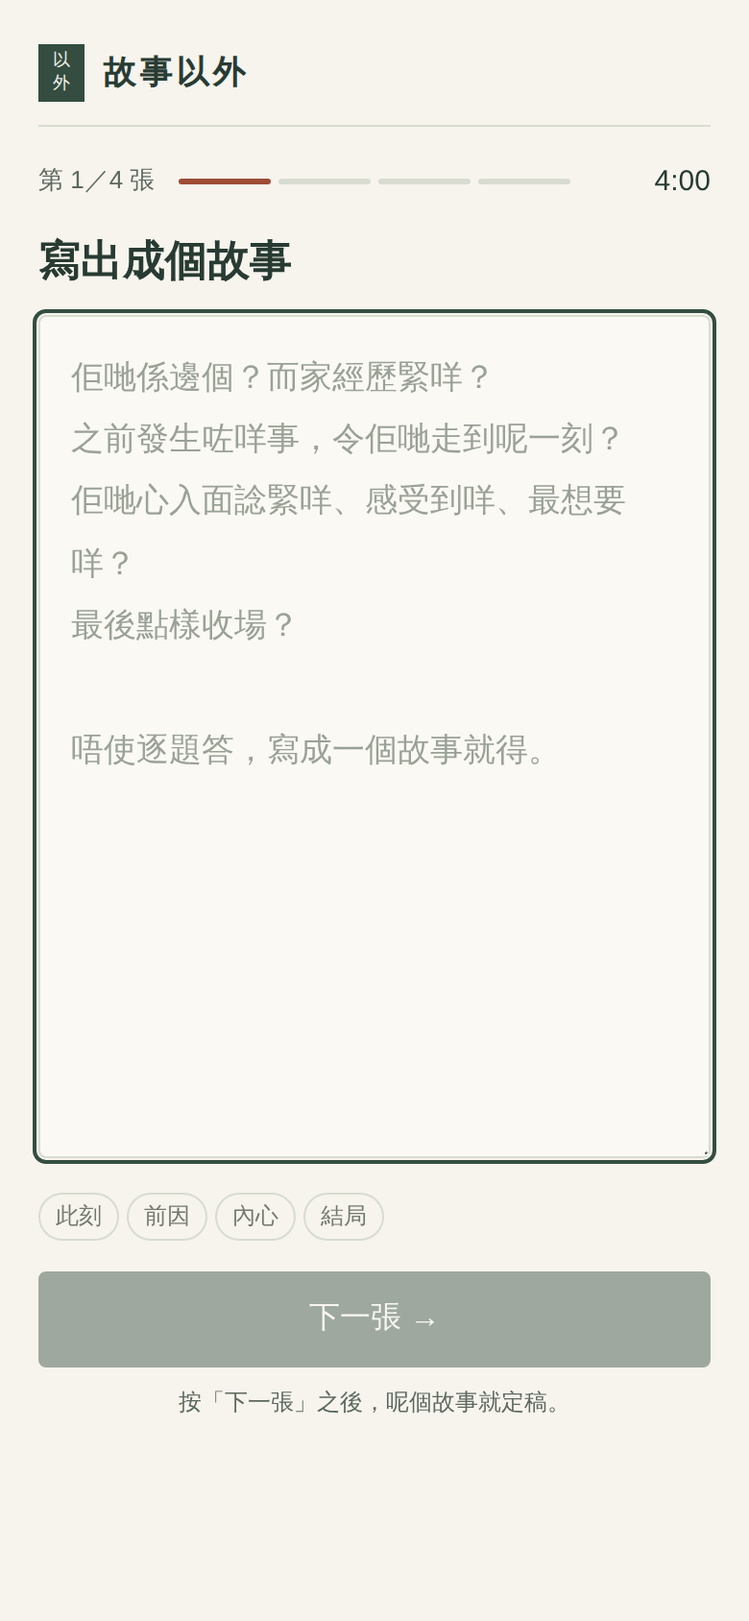
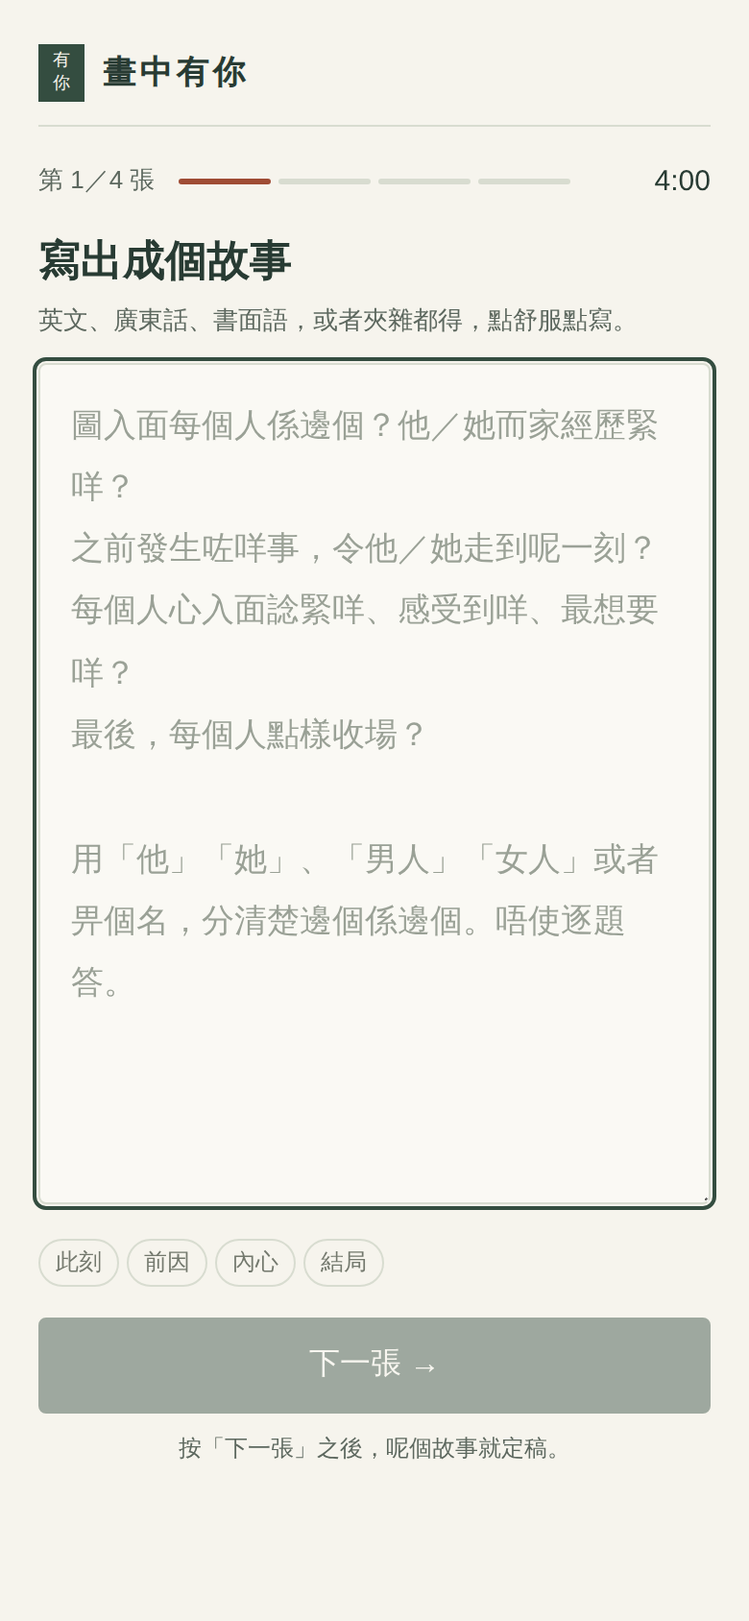
Per-character prompt, gentler nudge, more sensitive reading, rename
- Placeholder asks about each character with 他／她 (and suggests 男人／女人
  or names) instead of a collective 佢哋: translation renders a bare 佢 as
  "they", which merges characters in two-person stories.
- A line above the writing box says English, Cantonese, written Chinese or
  a mix are all fine.
- Short-story nudge becomes a quiet invitation to say more ("往往藏住你
  自己嘅影子"), muted instead of red.
- Sensitivity: a theme counts when either reading rates it >= 0.30 (the
  model's cut-off is 0.50); sentence cards label those 「隱約」. New slight
  lean tier (5-12 points above the pictures' share, 「有少少偏向」).
- Rename 故事以外 -> 畫中有你.

Claude-Session: https://claude.ai/code/session_01AKJCSX6GhkvQ21ka1gXCbL

diff --git a/web/app.js b/web/app.js
@@ -19,7 +19,11 @@ const SHORT = { ach: "成就", aff: "連結", pow: "影響力" };
 // Self-determination theory: achievement and power sit within competence, affiliation within relatedness.
 const NEEDS = [["勝任", "competence", ["ach", "pow"]], ["關係", "relatedness", ["aff"]]];
 const MIN_THEMES = 3;      // below this many detected themes, no lean is claimed
-const LEAN = 0.12;         // share above the pictures' typical share that counts as a lean
+const LEAN = 0.12;         // share above the pictures' typical share that counts as a clear lean
+const TILT = 0.05;         // ...and as a slight one
+// A theme counts when either reading rates it at least this likely; the model's own cut-off is 0.5.
+// Deliberately sensitive: for this exercise a faint false positive beats saying nothing.
+const FAINT = 0.3;
 const TYPICAL_OF_MAX = 0.75; // a picture "usually" pulls motives within 75% of its strongest pull
 // Boxer, couple by river, women in laboratory, ship captain.
 // German reference pulls: aff 4.18, ach 3.42, pow 3.99. A rough share benchmark, never a score correction.
@@ -322,8 +326,8 @@ function next() {
     S.nudged = pid;
     save();
     const note = $("short-note");
-    note.textContent = "故事好似未講完？可以補一兩句：之前發生咩、佢哋想要咩，或者最後點收場。"
-      + "已經寫完就再按一次。";
+    note.replaceChildren("想講多少少都得。他／她心入面諗緊咩、最後點樣，往往藏住你自己嘅影子。",
+      h("small", {}, "寫完就再按一次。"));
     note.hidden = false;
     return;
   }
@@ -550,9 +554,14 @@ function pathPanel(title, caption, counts) {
 
 // ---------- reading: combined themes against the pictures' pull ----------
 
-/** A sentence carries a theme if either reading found it (direct Cantonese under-detects). */
+/** Themes the model flagged, plus ones it rated at least FAINT likely but below its own cut-off. */
+const faintOf = (score) => MOTIVES.filter((m) => !score.motives.includes(m) && (score.scores?.[m] ?? 0) >= FAINT);
+
+/** A sentence carries a theme if either reading found it, even faintly (direct Cantonese under-detects). */
 function themesOf(s) {
-  return new Set([...s.direct.motives, ...(s.translated ? s.translated.motives : [])]);
+  const out = new Set();
+  for (const r of [s.direct, s.translated]) if (r) for (const m of [...r.motives, ...faintOf(r)]) out.add(m);
+  return out;
 }
 
 function combined(sentences) {
@@ -568,14 +577,16 @@ function typicalShares(pics) {
   return Object.fromEntries(MOTIVES.map((m) => [m, total ? sum[m] / total : 1 / 3]));
 }
 
-/** sparse: too few themes to read a profile; lean: a theme clearly above what the pictures pull; balanced: neither. */
+/** sparse: too few themes to read a profile; lean / tilt: a theme clearly / slightly above what the pictures pull; balanced: neither. */
 function reading(c, typical) {
   const total = MOTIVES.reduce((a, m) => a + c[m], 0);
   const share = Object.fromEntries(MOTIVES.map((m) => [m, total ? c[m] / total : 0]));
   if (total < MIN_THEMES) return { kind: "sparse", total, share, focus: leaders(c) };
   const lift = Object.fromEntries(MOTIVES.map((m) => [m, share[m] - typical[m]]));
   const top = Math.max(...MOTIVES.map((m) => lift[m]));
-  if (top >= LEAN) return { kind: "lean", total, share, focus: MOTIVES.filter((m) => lift[m] >= LEAN && top - lift[m] < 0.02) };
+  const near = (floor) => MOTIVES.filter((m) => lift[m] >= floor && top - lift[m] < 0.02);
+  if (top >= LEAN) return { kind: "lean", total, share, focus: near(LEAN) };
+  if (top >= TILT) return { kind: "tilt", total, share, focus: near(TILT) };
   return { kind: "balanced", total, share, focus: leaders(c) };
 }
 
@@ -598,11 +609,12 @@ function insightText(r, typical, failed) {
       `三種主題嘅比例，同一般人寫呢四張圖時相近，冇一種特別突出。最多嘅係${quote(r.focus)}。`];
   }
   const [m] = r.focus;
+  const verb = r.kind === "lean" ? "特別著重" : "有少少偏向";
   if (r.focus.length > 1) {
-    return [`你嘅故事，特別著重${quote(r.focus)}。`, `兩種主題都比一般人寫呢四張圖時多。`];
+    return [`你嘅故事，${verb}${quote(r.focus)}。`, `兩種主題都比一般人寫呢四張圖時多。`];
   }
   const [need, en] = needOf(m);
-  return [`你嘅故事，特別著重${quote([m])}。`,
+  return [`你嘅故事，${verb}${quote([m])}。`,
     `「${SHORT[m]}」佔你故事主題嘅 ${pct(r.share[m])}；一般人寫呢四張圖，大約係 ${pct(typical[m])}。`
     + `佢對應「${need}」（${en}）呢種心理需要。`];
 }
@@ -642,8 +654,10 @@ function chip(m, text, extra = "") {
 
 function labelList(score) {
   if (!score) return h("span", { class: "label none" }, "未有");
-  if (!score.motives.length) return h("span", { class: "label none" }, "冇主題");
-  return score.motives.map((m) => h("span", { class: `label ${m}-bg` }, NAMES[m]));
+  const faint = faintOf(score);
+  if (!score.motives.length && !faint.length) return h("span", { class: "label none" }, "冇主題");
+  return [...score.motives.map((m) => h("span", { class: `label ${m}-bg` }, NAMES[m])),
+    ...faint.map((m) => h("span", { class: `label faint ${m}` }, `隱約：${NAMES[m]}`))];
 }
 
 function dots(s) {
@@ -785,7 +799,7 @@ function download() {
   const d = lastResult;
   const x = summarise(d);
   const fmtCounts = (c) => MOTIVES.map((m) => `${NAMES[m]} ${c[m]}`).join("，");
-  const lines = ["故事以外 · 故事同結果", new Date().toLocaleString("zh-HK"), "", ...x.text, ""];
+  const lines = ["畫中有你 · 故事同結果", new Date().toLocaleString("zh-HK"), "", ...x.text, ""];
   if (x.r.kind !== "sparse") {
     lines.push("主題比例（你 ／ 一般人寫同一組圖）：");
     for (const [need, en, ms] of NEEDS) {
@@ -799,19 +813,23 @@ function download() {
     const typ = typicalOf(p);
     lines.push(`— 第 ${i + 1} 個故事 —`, `圖片一般引出：${typ ? typ.map((m) => SHORT[m]).join("、") : "未有常模"}`);
     for (const s of x.byPic[i]) {
-      const fmt = (y) => (y ? (y.motives.length ? y.motives.map((m) => NAMES[m]).join("、") : "冇主題") : "未有");
+      const fmt = (y) => {
+        if (!y) return "未有";
+        const all = [...y.motives.map((m) => NAMES[m]), ...faintOf(y).map((m) => `隱約${NAMES[m]}`)];
+        return all.length ? all.join("、") : "冇主題";
+      };
       lines.push(s.source, `  EN: ${s.english ?? "（未有翻譯）"}${s.uncertain ? " ⚑" : ""}`, `  原文：${fmt(s.direct)}｜翻譯後：${fmt(s.translated)}`);
     }
     lines.push("");
   });
-  lines.push("—— 故事以外 ——",
+  lines.push("—— 畫外，返到你自己 ——",
     "自我決定論：勝任（competence）、關係（relatedness）、自主（autonomy）。圖畫故事係一個粗略指標，反映你對頭兩種需要有幾敏感。",
     "1. 勝任：最近有冇一件事，你好想做得更好，或者想有多啲影響？",
     "2. 關係：你而家最想同邊個更親近？",
     "3. 自主：呢啲「想要」，係你自己揀嘅，定係為咗別人嘅期望？",
     "McAdams · The Art and Science of Personality Development (2015), Chapter 6: The Motivational Agenda", "",
     "—— 點樣計 ——",
-    "每句用原文同英文翻譯兩種方法讀（同一個 AMC 模型），任何一種讀到嘅主題計一次。「一般」係德國研究專家為同一組圖編碼嘅平均主題比例，只係粗略參照，唔係常模、百分位或者分數。",
+    `每句用原文同英文翻譯兩種方法讀（同一個 AMC 模型），任何一種讀法認為機會達 ${FAINT * 100}% 就計一次（模型本身要 50%），刻意寧願多計。「一般」係德國研究專家為同一組圖編碼嘅平均主題比例，只係粗略參照，唔係常模、百分位或者分數。`,
     "原文分析：" + fmtCounts(d.summary.direct),
     "英文翻譯後分析：" + (d.summary.translated ? fmtCounts(d.summary.translated) : "翻譯未能完成，唔代表零個主題。"),
     "兩種讀法：" + headline(d).filter(Boolean).join(" "),

diff --git a/web/index.html b/web/index.html
@@ -3,9 +3,9 @@
 <head>
 <meta charset="utf-8">
 <meta name="viewport" content="width=device-width, initial-scale=1, viewport-fit=cover">
-<title>故事以外 · PSE-HK 讀書會練習</title>
-<meta name="description" content="四張圖，四個完整故事。睇吓你嘅故事最常回到邊一種動機。">
-<meta property="og:title" content="故事以外 · 每張圖，都係故事嘅中間">
+<title>畫中有你 · PSE-HK 讀書會練習</title>
+<meta name="description" content="四張圖，四個完整故事。你寫落嘅人物，藏住你自己想要嘅嘢。">
+<meta property="og:title" content="畫中有你 · 每張圖，都係故事嘅中間">
 <meta property="og:description" content="約 20 分鐘嘅圖畫故事練習。冇標準答案。">
 <meta name="theme-color" content="#f6f4ed">
 <meta name="pse-api" content="https://remtoec--pse-hk-scorer-web.modal.run">
@@ -17,14 +17,14 @@
 </head>
 <body>
 <a class="skip-link" href="#app">跳到主要內容</a>
-<header class="masthead"><span class="wordmark"><span class="book-mark" aria-hidden="true">以<br>外</span>故事以外</span></header>
+<header class="masthead"><span class="wordmark"><span class="book-mark" aria-hidden="true">有<br>你</span>畫中有你</span></header>
 <main id="app" tabindex="-1">
   <p id="storage-notice" class="notice" role="status" hidden>呢個瀏覽器唔俾暫存草稿，重新載入會失去內容。請保持頁面開啟直至完成。</p>
 
   <section id="v-intro" class="view" hidden aria-labelledby="intro-title">
     <p class="eyebrow">圖畫故事練習 · PSE</p>
     <h1 id="intro-title" tabindex="-1">每張圖，<br>都係故事嘅<span class="accent-text">中間</span>。</h1>
-    <p class="lede">佢哋經歷緊咩？之前發生過咩？最後點收場？由你寫出成個故事。</p>
+    <p class="lede">圖入面每個人經歷緊咩？之前發生過咩？最後點收場？由你寫出成個故事。</p>
     <ol class="steps" aria-label="點樣玩">
       <li><b>10 秒</b>睇圖</li>
       <li><b>4 分鐘</b>寫故事</li>
@@ -35,7 +35,7 @@
       <button id="btn-resume" class="primary" hidden>繼續上次嘅故事</button>
       <button id="btn-delete" class="quiet" hidden>刪除草稿</button>
     </div>
-    <p class="fine">廣東話、中文、英文都得。冇標準答案，唔使文筆好。</p>
+    <p class="fine">廣東話、書面語、英文，或者夾雜都得。冇標準答案，唔使文筆好。</p>
     <details class="more"><summary>開始之前要知</summary>
       <ul class="plain">
         <li>按「下一張」之後，嗰個故事就定稿，唔會再改。</li>
@@ -59,10 +59,11 @@
   <section id="v-write" class="view exercise-view" hidden aria-labelledby="write-title">
     <div class="round-bar"><span class="round-no"></span><div class="round-progress" aria-hidden="true"></div><span class="timer"><span class="sr-only">建議時間 </span><span id="soft-timer" aria-live="off">4:00</span></span></div>
     <h2 id="write-title" class="round-title" tabindex="-1">寫出成個故事</h2>
+    <p id="lang-note" class="lang-note">英文、廣東話、書面語，或者夾雜都得，點舒服點寫。</p>
     <label for="story" class="sr-only">你嘅故事</label>
-    <textarea id="story" rows="10" spellcheck="false" autocomplete="off" placeholder="佢哋係邊個？而家經歷緊咩？&#10;之前發生咗咩事，令佢哋走到呢一刻？&#10;佢哋心入面諗緊咩、感受到咩、最想要咩？&#10;最後點樣收場？&#10;&#10;唔使逐題答，寫成一個故事就得。"></textarea>
+    <textarea id="story" rows="10" spellcheck="false" autocomplete="off" aria-describedby="lang-note" placeholder="圖入面每個人係邊個？他／她而家經歷緊咩？&#10;之前發生咗咩事，令他／她走到呢一刻？&#10;每個人心入面諗緊咩、感受到咩、最想要咩？&#10;最後，每個人點樣收場？&#10;&#10;用「他」「她」、「男人」「女人」或者畀個名，分清楚邊個係邊個。唔使逐題答。"></textarea>
     <div class="meta-row"><span class="arc"><span class="sr-only">提示：</span><span>此刻</span><span>前因</span><span>內心</span><span>結局</span></span><span><span id="char-count"></span> <span id="save-state" aria-live="polite"></span></span></div>
-    <p id="time-up" class="gentle" hidden>4 分鐘到，幫個故事收個尾。</p>
+    <p id="time-up" class="gentle" hidden>差唔多 4 分鐘喇，可以慢慢幫佢哋收個尾。</p>
     <p id="short-note" class="gentle" role="status" hidden></p>
     <div class="actions writing-actions"><button class="quiet skip" type="button">換一張</button><button id="btn-next" class="primary" disabled>下一張 →</button></div>
     <p class="fine lock-note">按「下一張」之後，呢個故事就定稿。</p>
@@ -120,7 +121,7 @@
     </section>
 
     <section id="reflection" class="chapter reflection-chapter" aria-labelledby="reflection-title">
-      <p class="eyebrow">故事以外</p>
+      <p class="eyebrow">畫外，返到你自己</p>
       <h2 id="reflection-title">故事人物想要嘅，<br>同你想要嘅呢？</h2>
       <p>自我決定論（Self-Determination Theory）認為，人有三種基本心理需要：<strong>勝任</strong>（competence）、<strong>關係</strong>（relatedness）同<strong>自主</strong>（autonomy）。圖畫故事係一個粗略指標，反映你對頭兩種需要有幾敏感；第三種，要問你自己。</p>
       <ol class="reflect-list">
@@ -135,7 +136,7 @@
 
     <details class="more technical"><summary>點樣計？限制同技術資料</summary>
       <h4>點樣計</h4>
-      <p>每一句用兩種方法讀：原文直接分析，同翻譯成英文後再分析，兩者都用自動動機編碼模型 AMC。任何一種讀到嘅主題計一次，每句每種主題最多計一次。上面嘅百分比，係三種主題之間嘅比例。</p>
+      <p>每一句用兩種方法讀：原文直接分析，同翻譯成英文後再分析，兩者都用自動動機編碼模型 AMC。只要其中一種讀法認為一句有某個主題嘅機會達 30%，就計一次（模型本身要 50% 先算），每句每種主題最多計一次。呢個係刻意寧願多計、唔好漏：句子卡入面，未達 50% 嘅會標示「隱約」。上面嘅百分比，係三種主題之間嘅比例。</p>
       <p>「一般」係 Schönbrodt 等人德國研究入面，專家為同一組圖編碼嘅平均主題比例。語言、編碼方法同故事長度都唔同，所以只係粗略參照，唔係常模、百分位或者分數。模型未經驗證適用於廣東話；故事亦唔係你嘅自傳。</p>
       <h4>兩種讀法</h4>
       <div id="tally" class="comparison"></div>

diff --git a/tests/web_fixtures.js b/tests/web_fixtures.js
@@ -46,8 +46,11 @@ function runWebFixtures() {
   if (previousDraft === null) localStorage.removeItem(KEY);
   else localStorage.setItem(KEY, previousDraft);
   const ph = document.getElementById("story").placeholder;
-  check("full-story guidance sits in the writing box", ["經歷緊咩", "之前發生咗咩事", "感受到咩", "最想要咩", "最後點樣收場"]
+  check("full-story guidance sits in the writing box", ["每個人", "經歷緊咩", "之前發生咗咩事", "感受到咩", "最想要咩", "點樣收場"]
     .every((x) => ph.includes(x)) && document.querySelectorAll("#v-write .arc span:not(.sr-only)").length === 4);
+  check("prompt asks for each character with 他／她", ph.includes("他／她") && ph.includes("「男人」「女人」") && !ph.includes("佢哋"));
+  check("language line above the box", ["英文", "廣東話", "書面語", "夾雜"].every((x) => document.getElementById("lang-note").textContent.includes(x))
+    && document.getElementById("lang-note").compareDocumentPosition(document.getElementById("story")) & Node.DOCUMENT_POSITION_FOLLOWING);
   check("no continuation framing", !document.getElementById("v-write").textContent.includes("然後"));
   S = fresh(); S.mode = "random"; draw();
   check("random draws four", new Set(S.order).size === 4 && S.skipsLeft === MAX_SKIPS);
@@ -126,6 +129,11 @@ function runWebFixtures() {
   const one = (d, t) => ({ direct: sc(...d), translated: t && sc(...t) });
   const u = combined([one([], ["ach"]), one(["aff"], ["aff"]), one(["pow"], []), one(["aff"], null)]);
   check("a theme counts once if either reading finds it", u.ach === 1 && u.aff === 2 && u.pow === 1);
+  const faintOnly = { direct: { motives: [], scores: { ach: 0.31, aff: 0.29, pow: 0.1, null: 0.6 } }, translated: null };
+  check("a faint theme counts, below the floor does not", [...themesOf(faintOnly)].join() === "ach");
+  const lbl = document.createElement("div"); lbl.append(...[labelList(faintOnly.direct)].flat());
+  check("faint theme labelled as such", lbl.textContent === "隱約：成就" && lbl.querySelector(".label.faint.ach"));
+  check("missing scores are tolerated", themesOf({ direct: { motives: ["pow"] }, translated: null }).has("pow"));
   const clubTypical = typicalShares(BOOKCLUB_SET.map(byId));
   check("bookclub typical shares", Math.abs(clubTypical.aff - 4.18 / 11.59) < 1e-9 && Math.abs(clubTypical.ach - 3.42 / 11.59) < 1e-9);
   const even = { ach: 1 / 3, aff: 1 / 3, pow: 1 / 3 };
@@ -134,6 +142,10 @@ function runWebFixtures() {
   check("balanced", reading({ ach: 3, aff: 4, pow: 3 }, clubTypical).kind === "balanced"
     && reading({ ach: 3, aff: 4, pow: 3 }, clubTypical).focus.join() === "aff");
   check("sparse", reading({ ach: 1, aff: 1, pow: 0 }, clubTypical).kind === "sparse");
+  check("slight lean", reading({ ach: 3, aff: 4, pow: 2 }, clubTypical).kind === "tilt"
+    && reading({ ach: 3, aff: 4, pow: 2 }, clubTypical).focus.join() === "aff");
+  check("slight lean is worded softer", insightText(reading({ ach: 3, aff: 4, pow: 2 }, clubTypical), clubTypical, false)[0] === "你嘅故事，有少少偏向「連結」。"
+    && insightText(reading({ ach: 1, aff: 5, pow: 1 }, clubTypical), clubTypical, false)[0] === "你嘅故事，特別著重「連結」。");
   check("tied lean names both", reading({ ach: 3, aff: 3, pow: 0 }, even).focus.join() === "ach,aff");
   check("lab picture pulls two themes", typicalOf(byId("c18")).join() === "ach,pow");
   check("unmatched picture has no typical theme", typicalOf({ pull: null }) === null

diff --git a/web/styles.css b/web/styles.css
@@ -77,7 +77,9 @@ details.more p { font-size: 14px; }
 .round-progress span.complete { background: var(--binding); }
 .round-progress span.current { background: var(--annotation); }
 .timer { font-size: 15px; color: var(--ink); margin-left: auto; }
-.round-title { font-size: 22px; margin-bottom: 12px; }
+.round-title { font-size: 22px; margin-bottom: 4px; }
+.lang-note { font-size: 13px; color: var(--ink-2); margin: 0 0 10px; }
+#v-view .round-title { margin-bottom: 12px; }
 .stimulus { margin: 0; position: relative; height: min(62vh, 560px); min-height: 260px; background: var(--paper-2); padding: 8px; display: grid; place-items: center; border-radius: 4px; }
 .stimulus img { width: 100%; height: 100%; min-height: 0; object-fit: contain; display: block; }
 .stimulus img:not([src]) { display: none; }
@@ -94,7 +96,8 @@ textarea[readonly] { background: transparent; border: 0; border-left: 2px solid 
 .arc { display: flex; gap: 4px; }
 .arc span { padding: 1px 8px; border: 1px solid var(--rule); border-radius: 999px; color: var(--muted); }
 .over { color: var(--annotation); font-weight: 700; }
-.gentle { border-left: 2px solid var(--annotation); padding: 8px 12px; color: var(--annotation); font-size: 14px; margin: 12px 0 0; }
+.gentle { padding: 4px 0 0; color: var(--ink-2); font-size: 14px; line-height: 1.7; margin: 10px 0 0; animation: appear 400ms var(--ease) both; }
+.gentle small { display: block; font-size: 12px; color: var(--muted); }
 .writing-actions { margin-top: 16px; }
 .lock-note { text-align: center; margin: 8px 0 0; font-size: 12px; }
 
@@ -194,6 +197,8 @@ details.card[open] summary::after { transform: rotate(90deg); }
 .card-body dd { margin: 0; font-size: 14px; overflow-wrap: anywhere; }
 .label { display: inline-block; color: var(--card); padding: 2px 8px; font-size: 12px; border-radius: 3px; margin: 4px 4px 0 0; }
 .label.none { color: var(--ink-2); border: 1px solid #bac3b5; }
+.label.faint { background: transparent; border: 1px dashed currentColor; }
+.label.faint.ach { color: var(--ach); } .label.faint.aff { color: var(--aff); } .label.faint.pow { color: var(--pow); }
 .flag-uncertain { color: var(--annotation); }
 
 .reflection-chapter h2 { margin-bottom: 16px; }

diff --git a/README.md b/README.md
@@ -1,4 +1,4 @@
-# PSE-HK · 故事以外
+# PSE-HK · 畫中有你
 
 A small, mobile-first Picture Story Exercise (PSE) for a Hong Kong reading group. Participants look at four pictures, write a short story about each in Cantonese, Chinese, English or a mix, and get an **experimental** automated analysis of achievement, affiliation and power imagery in their stories.
 
@@ -20,12 +20,14 @@ marker of how sensitive someone's imagination is to the **competence** need
 imagery). Autonomy is left to the participant's own reflection.
 
 **Results lead with an interpretation, benchmarked against the pictures' pull.**
-A sentence carries a theme if either reading (original or translated) found it,
-because direct Cantonese coding under-detects. The page compares each theme's
+Detection is deliberately sensitive, because the page's job is to intrigue
+rather than to measure. A sentence carries a theme if either reading
+(original or translated) rates it at least 30% likely. The model's own cut-off
+is 50%, and sentence cards mark the 30–50% themes as 「隱約」. The page compares each theme's
 *share* of the participant's themes with its share in German expert-coded
-stories for the same pictures, then says which theme leans above that (12
-percentage points or more), or that the profile is close to the pictures, or
-that there are too few themes (fewer than 3) to read. Each picture also shows
+stories for the same pictures. It then names a clear lean (12 percentage points
+or more above), a slight lean (5–12), a profile close to the pictures, or too few
+themes (fewer than 3) to read. Each picture also shows
 the theme(s) it usually pulls, and flags themes the participant brought in
 against that pull. Research correlates from McAdams (2015, ch. 6) explain the
 leading theme. The benchmark is only a rough reference: it uses shares, never
@@ -57,7 +59,7 @@ Doing it at home also spreads the load. The backend scores one story set at a ti
 - **Random mode:** four pictures from the entire supplied archive (18 classical and 30 newer pictures). Participants may skip up to 4 per run. Skipped pictures are excluded on that browser until fewer than four eligible pictures remain, when the exclusion list resets.
 - No motive category is named before the stories are written. The results page leads with one interpretation (leading theme, balanced, or too few themes), a competence/relatedness profile with the pictures' typical shares marked, and any brought-in themes. Then come research notes on each motive (the leading one open), a picture-by-picture view with sentence cards, and three static SDT reflection questions. Both-path counts, agreement, picture pulls, protocol notes, theory background, credits and model metadata sit in a collapsed "點樣計？限制同技術資料" section.
 - A story is final once the participant presses「下一張」, so later pictures cannot change earlier stories. The review screen is read-only, except for a story the length checks reject.
-- The writing screen asks for a complete story (「寫出成個故事」), not a continuation. The four standard prompts sit inside the writing box as faint placeholder text on every screen size: who they are and what they are going through, what led up to this, what they think/feel/want, and how it ends. The prompts disappear once the participant types; a row of four small reminders (此刻 · 前因 · 內心 · 結局) stays underneath. Separate answers and polished grammar/punctuation are not required. Returning participants may write similar or different stories. A story of fewer than 2 sentences gets a single optional nudge to add the before, the wants or the ending; it is never blocked.
+- The writing screen asks for a complete story (「寫出成個故事」), not a continuation. A line above the box says English, Cantonese, written Chinese or a mix are all fine. The four standard prompts sit inside the writing box as faint placeholder text on every screen size, asked of each character rather than a collective 佢哋: who each person is and what he or she is going through, what led up to this, what each thinks/feels/wants, and how each ends. The placeholder suggests 他／她, 男人／女人 or names; the translation prompt renders an unspecified 佢 as singular "they", which blurs who is who when a story has two characters. The prompts disappear once the participant types; a row of four small reminders (此刻 · 前因 · 內心 · 結局) stays underneath. Separate answers and polished grammar/punctuation are not required. Returning participants may write similar or different stories. A story of fewer than 2 sentences gets a single quiet invitation to say more (what he or she is thinking, how it ends, "often where your own shadow is"); pressing again continues, and it is never blocked.
 - Drafts are saved in the participant's browser, so they can leave and come back within 7 days.
 - Deviations from the standard protocol (4 minutes per story, one sitting) are recorded but not enforced: writing time per story, time away from the page, and resuming after more than 5 minutes. They appear on the results page and in the download, with a note that such stories are less standardised.
 - Sentence-level motive coding with the Automated Motive Coder (AMC) along two paths:

diff --git a/docs/pse-protocol-review.md b/docs/pse-protocol-review.md
@@ -142,3 +142,22 @@ not a norm. Research correlates are phrased as group tendencies ("people with
 more of this theme tend to…"), not statements about the reader. With 4–10
 themes per run, one sentence moves a share by 10–25 points; the page says so when
 there are fewer than 6.
+
+### Follow-up the same day: sensitivity, characters, name
+
+- **Sensitivity over caution.** The owner prefers false positives to silence,
+  because the aim is to intrigue and draw an emotional response. A theme now
+  counts when either reading rates it ≥ 0.30 (`FAINT`), below the model's own
+  0.50 cut-off. The method note and the download state this, and sentence
+  cards label 0.30–0.50 themes 「隱約」. A slight-lean tier (5–12 points above the
+  pictures' share, 「有少少偏向」) makes "close to the pictures" rarer. Neither
+  number is calibrated against human coding; both are constants in `web/app.js`.
+- **Each character, with 他／她.** The placeholder asks about each person and uses
+  他／她, suggesting 男人／女人 or names. Translation prompt v3 renders an
+  unspecified 佢 as "they", which merges characters in two-person stories;
+  explicit pronouns keep who wants what intact for coding.
+- **Gentler nudge.** The short-story note is now a muted invitation
+  ("他／她心入面諗緊咩、最後點樣，往往藏住你自己嘅影子"), not a task list.
+- **Language line** above the box: English, Cantonese, written Chinese or a mix.
+- **Name:** 故事以外 → 畫中有你 ("you are in the picture"), which says what the
+  exercise is about: the wants you write into the characters are yours.

diff --git a/docs/ui-overhaul-checks.md b/docs/ui-overhaul-checks.md
@@ -65,6 +65,7 @@ guardrails: [protocol review, 2026-09-29](pse-protocol-review.md#2026-09-29-revi
 | Horizontal overflow at 390px | None (`scrollWidth` 390 on writing and results) |
 | Results page height at 390px | ~3,200px with sections collapsed, down from ~4,900px |
 | Console | No JavaScript errors (Google Fonts blocked in the sandbox only) |
+| Same-day follow-up | Fixtures `[]` (normal and fallback) with new checks: per-character 他／她 prompt with no 佢哋, language line above the box, ≥ 0.30 faint themes counted and labelled 「隱約」, slight-lean tier and wording, v2 draft resume label; flow and 49 pytest pass |
 
 Screenshots: `artifacts/ui-revision/` (`before-phone-write.png` for comparison).
 Not checked: physical iOS/Android browsers, screen readers, live model service.
